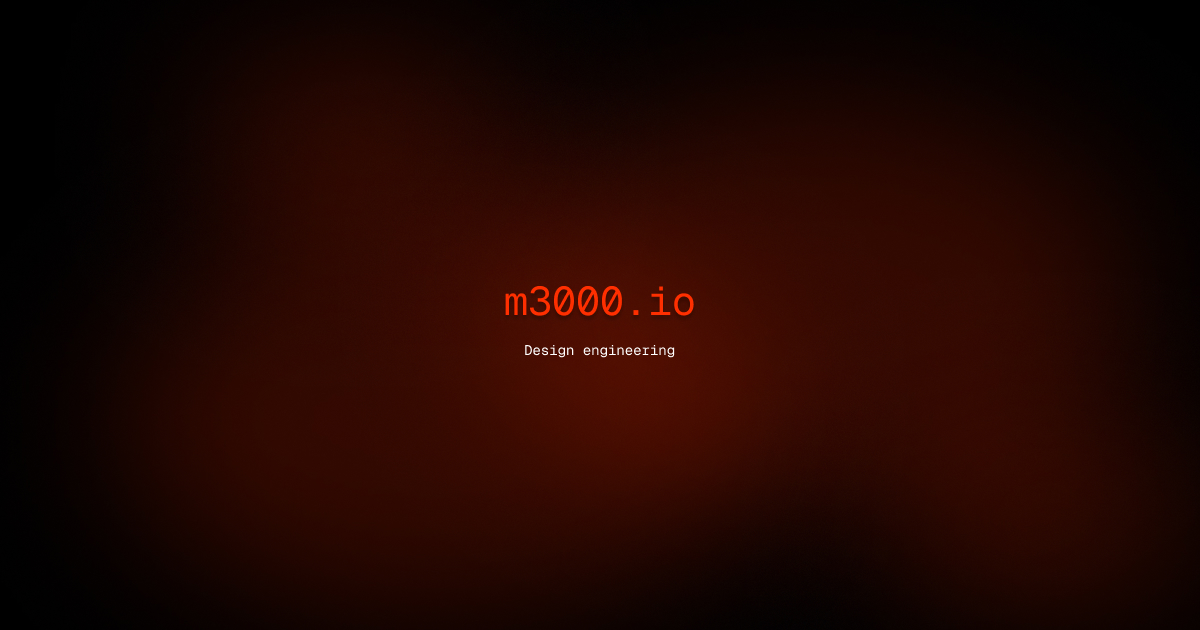
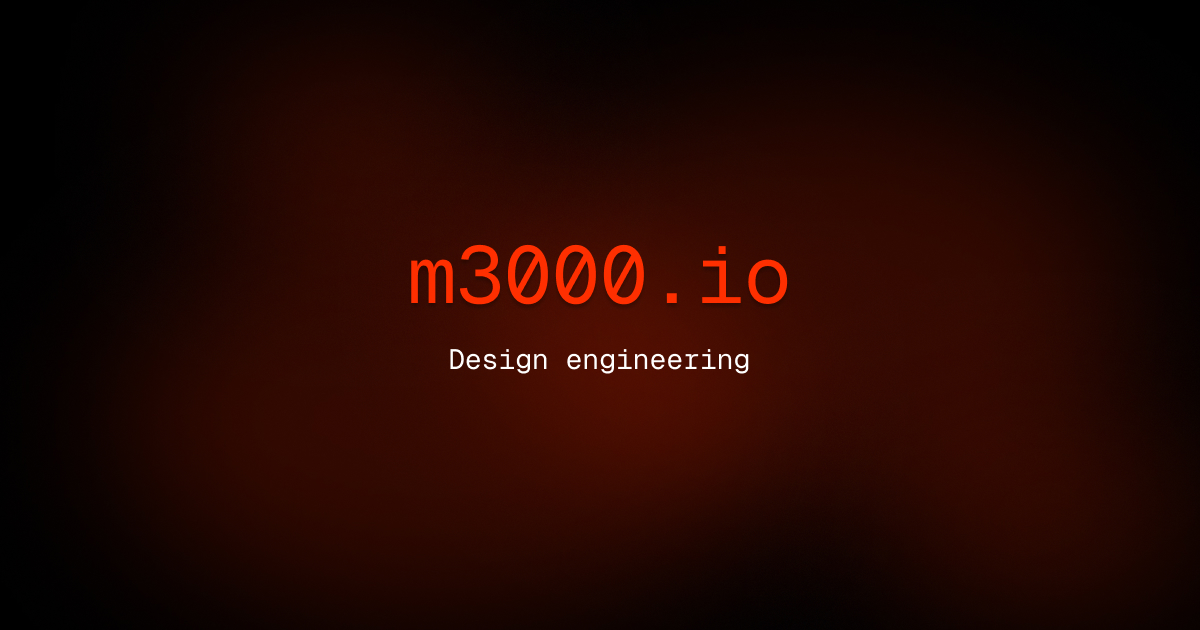
update og-image; fix background; fix typo

Changed region(s): [[0.3392, 0.3921, 0.6783, 0.5127], [0.37, 0.5429, 0.6475, 0.6032]]

diff --git a/src/styles/theme/color.css b/src/styles/theme/color.css
@@ -1,6 +1,4 @@
 @theme {
-  --background: #ffffff;
-  --foreground: #171717;
   --primary: #ff2f00;
   --secondary: #bda150;
 
@@ -10,10 +8,10 @@
   --color-white: #ffffff;
   --color-black: #000000;
 
-  --color-background: var(--background);
-  --color-foreground: var(--foreground);
   --color-primary: var(--primary);
   --color-secondary: var(--secondary);
+  --color-background: var(--color-black);
+  --color-foreground: var(--color-primary);
 
   --color-text-primary: var(--color-white);
   --color-text-secondary: var(--color-primary);

diff --git a/src/app/layout.tsx b/src/app/layout.tsx
@@ -43,7 +43,7 @@ export const metadata: Metadata = {
     type: "website",
     locale: "en_US",
     url: "https://m3000.io",
-    title: "m3000.ioo — Design engineering",
+    title: "m3000.io — Design engineering",
     description:
       "Developer & Designer. Building at fxhash, leading generative art across blockchains. Former Studio NAND & ART+COM. Graduate thesis on computer linguistics — years before the rise of before LLMS and ChatGPT.",
     siteName: "m3000.io — Design engineering",

diff --git a/src/styles/globals.css b/src/styles/globals.css
@@ -1,6 +1,6 @@
 html {
   -webkit-font-smoothing: antialiased;
-  background-color: var(--color-backgournd-primary);
+  background-color: var(--color-background);
   color: var(--color-text-primary);
   @variant dark {
     /* in case we will have theme switch in the future */
@@ -8,7 +8,7 @@ html {
 }
 
 body {
-  background: var(--background);
+  background: var(--color-background);
   color: var(--foreground);
   font-family: var(--font-sans), Arial, Helvetica, sans-serif;
 }
